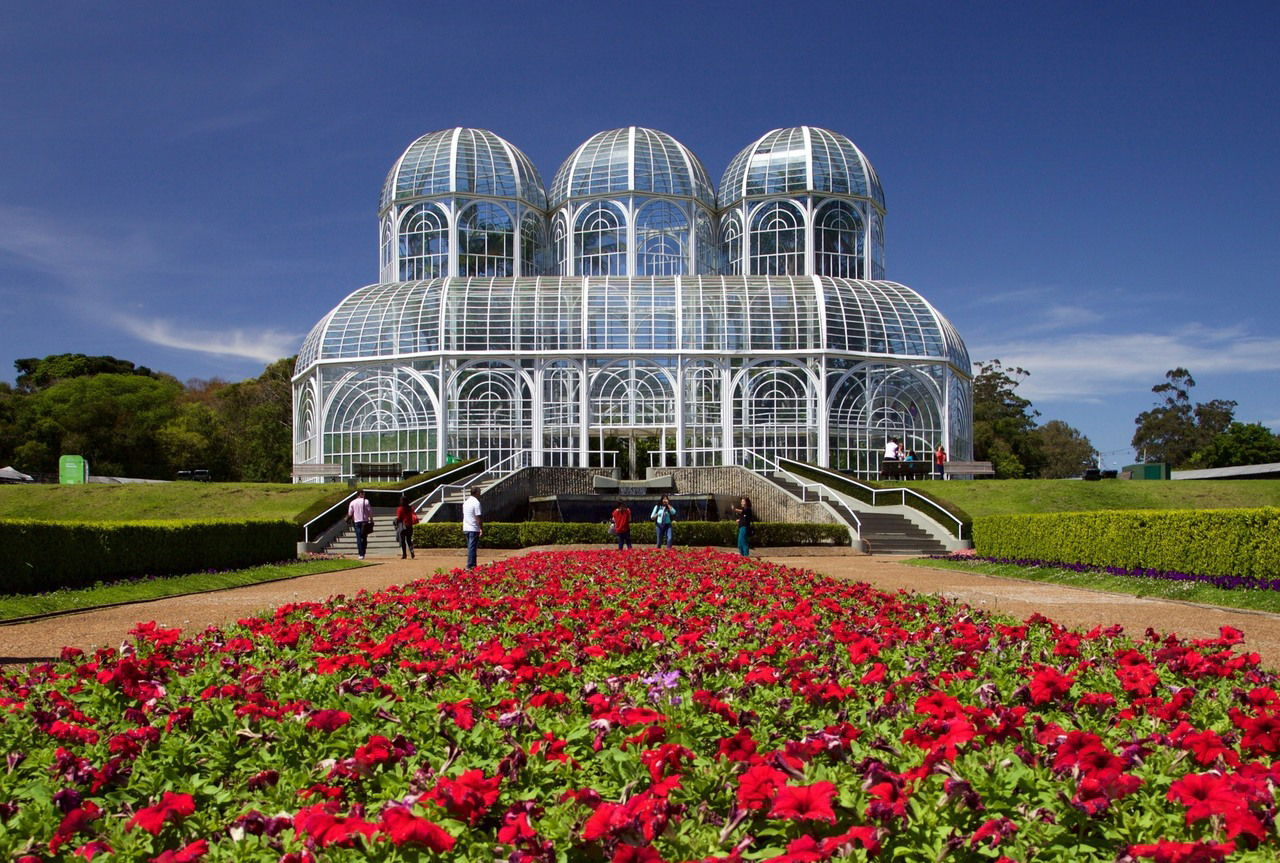
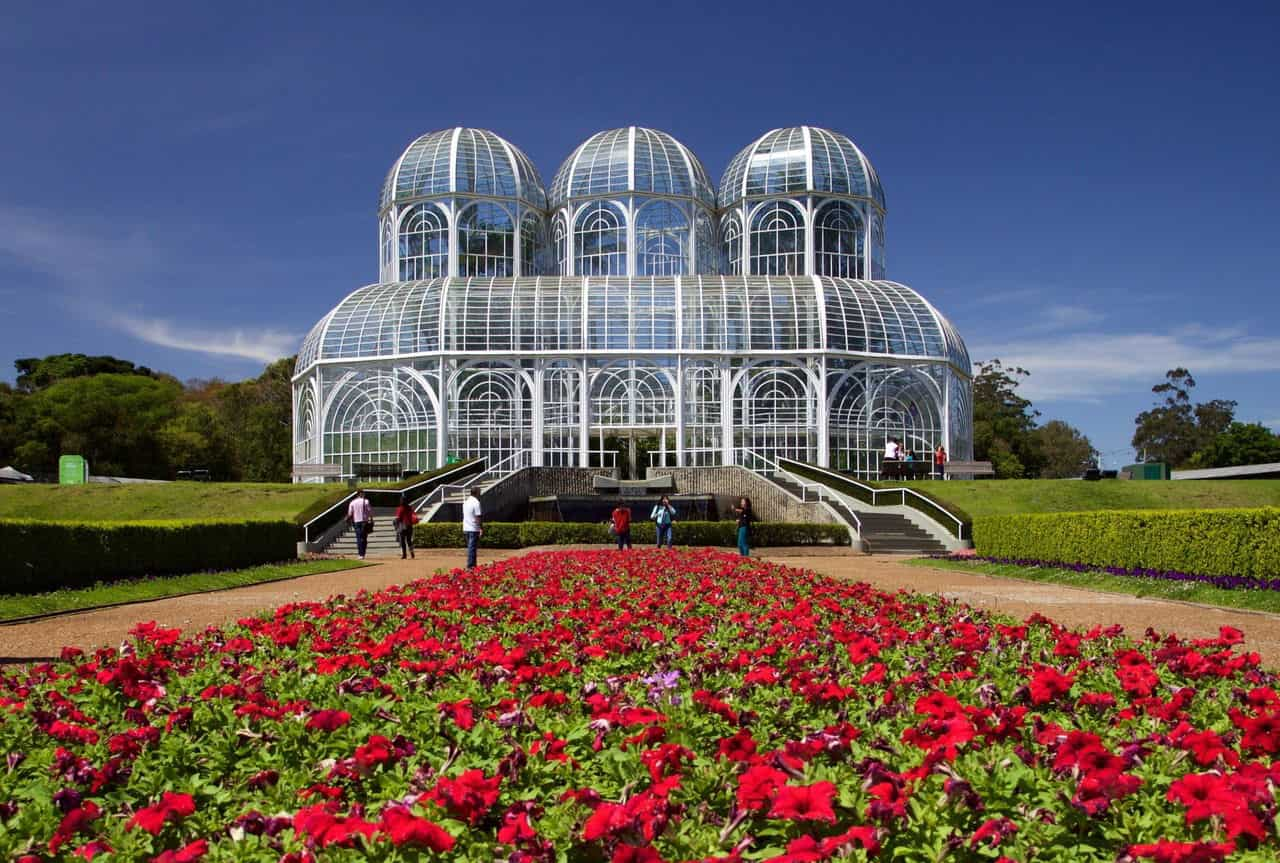
initial commit

diff --git a/chamber/styles/larger.css b/chamber/styles/larger.css
@@ -1,15 +1,10 @@
 @media screen and (min-width: 1025px) {
-
-    /* HEADER */
     header {
-        display: flex;
         flex-direction: row;
         justify-content: space-between;
         padding: 1rem 5%;
-        align-items: center;
     }
 
-    /* NAVIGATION */
     #menu {
         display: none !important;
     }
@@ -20,106 +15,18 @@
         width: auto;
     }
 
-    .navigation li a:hover {
-        background-color: var(--color-accent);
-        color: var(--color-white);
-        transition: 0.3s ease;
-    }
-
-    /* HOME GRID & HERO */
-    .home-grid {
-        display: grid;
-        grid-template-columns: 2fr 1fr;
-        grid-template-areas:
-            "hero hero"
-            "events weather"
-            "spotlights spotlights";
-        gap: 1.5rem;
-        padding: 20px;
-    }
-
-    .hero {
-        grid-area: hero;
-        position: relative;
-    }
-
-    .hero-img {
-        width: 100% !important;
-        height: auto !important;
-        object-fit: cover;
-        display: block;
-    }
-
-    .cta-overlay {
-        position: absolute;
-        top: 20%;
-        left: 5%;
-        width: 45%;
-        padding: 2.5rem;
-        background: var(--color-overlay, rgba(0, 51, 102, 0.8));
-        border-radius: 10px;
-        color: var(--color-white);
-        z-index: 5;
-    }
-
-    .cta-overlay h1 {
-        font-size: 2.5rem;
-    }
-
-    /* HOME SECTIONS */
-    .events {
-        grid-area: events;
-        background: var(--color-white);
-        padding: 1.5rem;
-        border-radius: 8px;
-        border-left: 8px solid var(--color-primary);
-        box-shadow: 0 4px 8px rgba(0, 0, 0, 0.1);
-    }
-
-    .weather {
-        grid-area: weather;
-        background: var(--color-bg-light, #e6f2ff);
-        padding: 1.5rem;
-        border-radius: 8px;
-        border: 1px solid var(--color-border);
-        text-align: center;
-    }
-
-    .spotlights {
-        grid-area: spotlights;
-    }
-
-    #business-spotlights,
-    #members.grid {
-        display: grid;
-        grid-template-columns: repeat(3, 1fr);
-        gap: 1.5rem;
-    }
-
-    /* DISCOVER PAGE */
     #discover-grid {
-        display: grid;
         grid-template-columns: 300px 1fr;
-        grid-template-areas: "sidebar gallery";
         max-width: 1200px;
-        margin: 0 auto;
-        gap: 2rem;
-    }
-
-    .sidebar {
-        grid-area: sidebar;
     }
 
     .gallery {
-        grid-area: gallery;
         display: flex;
         flex-direction: column;
-        gap: 2rem;
+        /* Layout em lista horizontal para desktop */
     }
 
-    /* PLACE CARD */
     .place-card {
-        display: grid;
         grid-template-columns: 300px 1fr;
         grid-template-areas:
             "photograph title"
@@ -127,41 +34,10 @@
             "photograph location"
             "photograph button";
         column-gap: 2rem;
-        background: var(--color-white);
-        padding: 1.5rem;
-        border-radius: 8px;
-        box-shadow: 0 4px 8px rgba(0, 0, 0, 0.05);
     }
 
-    .place-card h2 {
-        grid-area: title;
-        margin: 0;
-    }
-
-    .place-card figure {
-        grid-area: photograph;
-        margin: 0;
-    }
-
-    .place-card p {
-        grid-area: description;
-    }
-
-    .place-card address {
-        grid-area: location;
-        font-style: normal;
-    }
-
-    .place-card button {
-        grid-area: button;
-        width: fit-content;
-    }
-
-    /* IMAGE HOVER EFFECT */
+    /* EFEITO DE HOVER - Requisito 13 */
     #places-gallery .place-card img {
-        width: 300px;
-        height: 200px;
-        object-fit: cover;
         transition: transform 0.4s ease, filter 0.4s ease;
     }
 
@@ -169,17 +45,5 @@
         filter: brightness(1.1) saturate(1.2);
         transform: scale(1.05);
         cursor: pointer;
-    }
-
-    /* JOIN PAGE */
-    .join-content-wrapper {
-        display: grid;
-        grid-template-columns: 1.2fr 1fr;
-        gap: 3rem;
-    }
-
-    .coin-img {
-        width: 80px !important;
-        height: auto !important;
     }
 }

diff --git a/chamber/styles/small.css b/chamber/styles/small.css
@@ -11,6 +11,8 @@
     --color-card-bg: #f9f9f9;
     --color-border: #bccfeb;
     --color-overlay: rgba(0, 51, 102, 0.8);
+    --space-sm: 1rem;
+    /* Adicionado para garantir proximidade e alinhamento */
 }
 
 body {
@@ -20,6 +22,8 @@ body {
 
 main {
     padding: var(--space-sm);
+    max-width: 1200px;
+    margin: 0 auto;
 }
 
 .page-title {
@@ -39,7 +43,8 @@ header {
     flex-direction: column;
     align-items: center;
     position: relative;
-    }
+}
+
 .logo-container {
     display: flex;
     align-items: center;
@@ -53,12 +58,6 @@ header {
     border-radius: 50%;
     object-fit: cover;
     border: 2px solid var(--color-white);
-}
-
-.logo-container span {
-    font-size: 1.5rem;
-    font-weight: 700;
-    text-transform: uppercase;
 }
 
 #menu {
@@ -79,13 +78,6 @@ header {
 #menu.show::before {
     content: "X";
 }
-
-.place-card img {
-    width: 100%;
-    max-width: 400px;
-    height: auto;
-    object-fit: cover;
-    border-radius: 5px;}
 
 .navigation {
     list-style: none;
@@ -109,18 +101,6 @@ header {
     border-top: 1px solid rgba(255, 255, 255, 0.1);
 }
 
-.navigation li a.active {
-    background-color: rgba(0, 0, 0, 0.2);
-    text-decoration: underline;
-}
-
-.navigation li a:hover {
-    background-color: var(--color-accent);
-    color: var(--color-white);
-    transition: 0.3s ease;
-}
-
-
 /* =========================================
    DISCOVER PAGE & CARDS (MOBILE LAYOUT)
 ========================================= */
@@ -131,11 +111,6 @@ header {
         "sidebar"
         "gallery";
     gap: 1.5rem;
-    padding-top: 1rem;
-}
-
-.sidebar {
-    grid-area: sidebar;
 }
 
 .gallery {
@@ -147,24 +122,23 @@ header {
 
 .place-card {
     display: grid;
+    /* CORREÇÃO: Nomes de áreas padronizados e sem erros de grafia */
     grid-template-areas:
-        "name"
+        "title"
         "photograph"
         "description"
-        "loction"
+        "location"
         "button";
     background-color: var(--color-white);
     padding: 1.5rem;
     border-radius: 8px;
     border: 1px solid var(--color-border);
-    text-align: center;
     box-shadow: 0 4px 8px rgba(0, 51, 102, 0.1);
 }
 
 .place-card h2 {
-    grid-area: name;
+    grid-area: title;
     color: var(--color-primary);
-    margin: 0 0 1rem 0;
 }
 
 .place-card figure {
@@ -176,18 +150,15 @@ header {
     width: 100%;
     height: auto;
     border-radius: 5px;
-    margin-bottom: 1.5rem;
 }
 
 .place-card p {
     grid-area: description;
-    margin: 0.5rem 0 1rem 0;
 }
 
 .place-card address {
-    grid-area: loction;
+    grid-area: location;
     font-weight: bold;
-    margin-bottom: 1rem;
 }
 
 .place-card button {
@@ -201,24 +172,11 @@ header {
     margin: 0 auto;
 }
 
-#visitor-message {
-    background: var(--color-card-bg);
-    padding: 1.5rem;
-    border: 1px solid var(--color-border);
-    border-radius: 8px;
-    text-align: center;
-    font-weight: bold;
-}
-
-/* =========================================
-   FOOTER
-========================================= */
 footer {
     background: var(--color-primary);
     color: white;
     text-align: center;
     padding: 2rem 1rem;
-    width: 100%;
 }
 
 .social {

diff --git a/chamber/discover.html b/chamber/discover.html
@@ -13,7 +13,7 @@
 
     <meta property="og:title" content="Discover Curitiba - City Chamber of Commerce">
     <meta property="og:type" content="website">
-    <meta property="og:image" content="https://camillavieiradevelopment.github.io/wdd231/chamber/images/hero_image.png">
+    <meta property="og:image" content="https://camillavieiradevelopment.github.io/wdd231/chamber/images/hero_image.webp">
     <meta property="og:url" content="https://camillavieiradevelopment.github.io/wdd231/chamber/discover.html">
     <meta property="og:description"
         content="Visit Curitiba and learn about the population, area, and landmarks of Brazil's Ecological Capital.">
@@ -35,7 +35,7 @@
 <body>
     <header>
         <div class="logo-container">
-            <img src="images/chamber_logo.png" alt="Chamber Logo" width="60" height="60">
+            <img src="images/chamber_logo.webp" alt="Chamber Logo" width="60" height="60">
             <span>City Chamber</span>
         </div>
         <a id="menu" href="#" aria-label="Toggle Menu"></a>

diff --git a/chamber/styles/medium.css b/chamber/styles/medium.css
@@ -1,26 +1,29 @@
-/* =========================================
-   TABLET STYLES (641px - 1024px)
-========================================= */
 @media screen and (min-width: 641px) {
     #discover-grid {
         grid-template-columns: 250px 1fr;
         grid-template-areas: "sidebar gallery";
+        gap: 2rem;
     }
 
     .gallery {
         display: grid;
         grid-template-columns: 1fr 1fr;
-        /* Diferente do mobile e desktop */
+        /* Layout em grade para tablet */
         gap: 1.5rem;
     }
 
     .place-card {
-        /* Segundo Layout de Grid Areas */
         grid-template-areas:
             "photograph"
-            "name"
+            "title"
             "description"
-            "loction"
+            "location"
             "button";
+        text-align: left;
+    }
+
+    .place-card button {
+        margin: 0;
+        /* Alinha o botão à esquerda no tablet */
     }
 }
